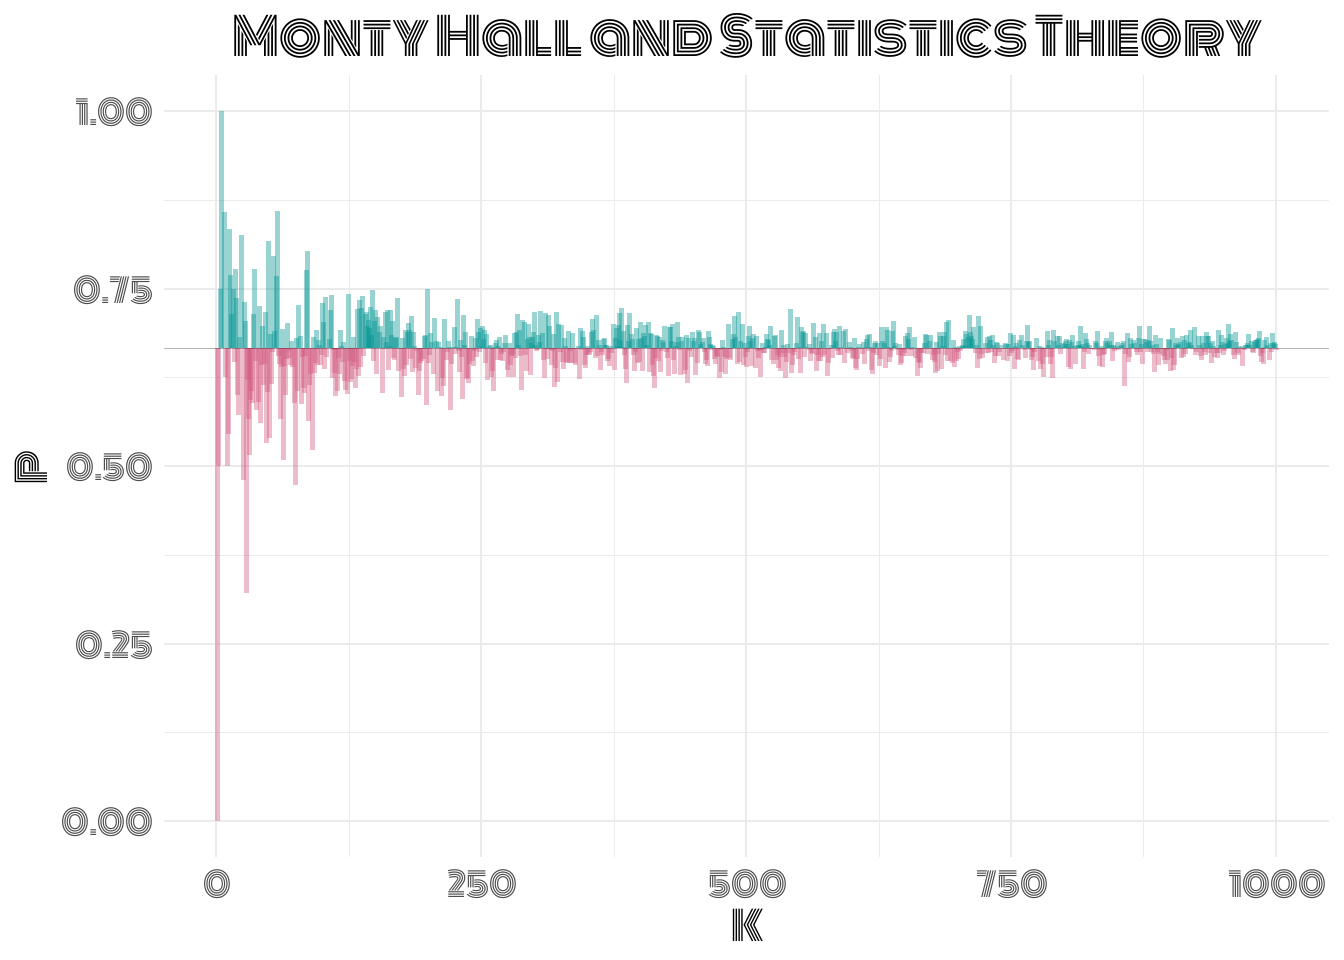
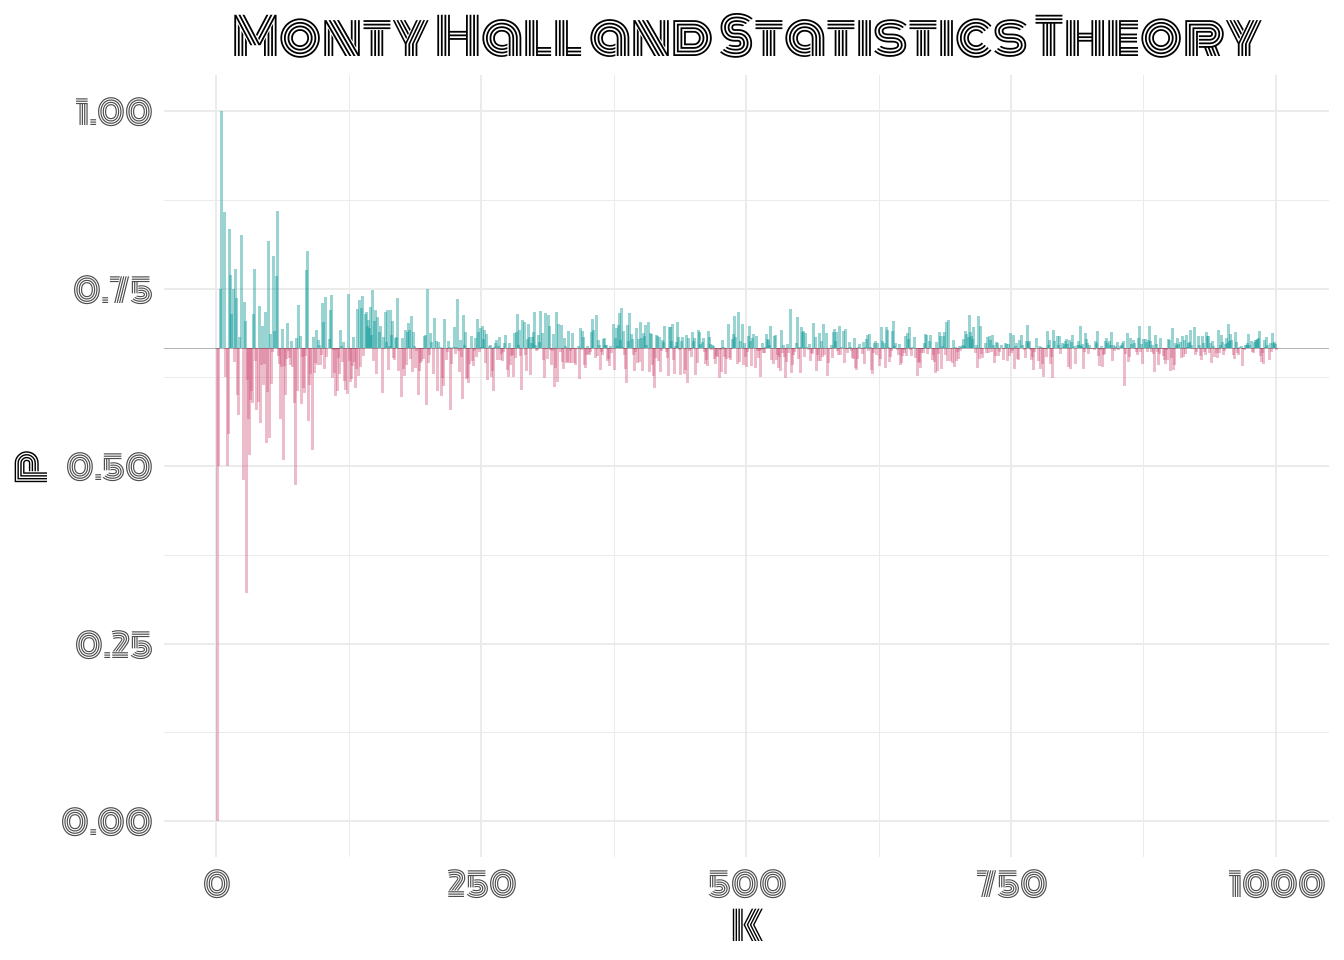
изменения в описании сайта

Changed region(s): [[0.1562, 0.2188, 0.9688, 0.5]]

diff --git a/content/blog/blog_post_2.md b/content/blog/blog_post_2.md
@@ -98,7 +98,7 @@ MontyHall(T)
 ```
 
 ```
-## [1] TRUE
+## [1] FALSE
 ```
 
 ```r
@@ -106,7 +106,7 @@ WinProb(F, 1000)
 ```
 
 ```
-## [1] 0.324
+## [1] 0.319
 ```
 
 ```r
@@ -114,7 +114,7 @@ WinProb(T, 1000)
 ```
 
 ```
-## [1] 0.663
+## [1] 0.637
 ```
 
 Теперь нарисуем, как вероятность выигрыша при смене выбора сходится к своему истинному значению при увеличении числа испытаний. Действительно, для проверки статистических гипотез часто требуется большая выборка:
@@ -132,7 +132,7 @@ data.frame(P = WinProb_K,
            K = seq(1, K, by = 1)) %>%
   mutate(mycolor = ifelse(P > 0.66667, "type1", "type2")) %>%
   ggplot(aes(x = K, y = P)) +
-  geom_segment(aes(x = K, xend = K, y = 0.66667, yend = P, color = mycolor), size = 1.0, alpha = 0.4, show.legend = F) +
+  geom_segment(aes(x = K, xend = K, y = 0.66667, yend = P, color = mycolor), size = 0.7, alpha = 0.4, show.legend = F) +
   geom_hline(yintercept = 0.66667, size = 0.2, alpha = 0.3)  +
   scale_color_carto_d(palette = 'TealRose') +
   theme_minimal(base_family = 'Monoton') +

diff --git a/content/about.md b/content/about.md
@@ -1,6 +1,8 @@
 ---
-date: "2023-04-18"
+date: "2023-04-15"
 title: О сайте
 ---
 
-Этот сайт посвящён весеннему курсу по прикладной эконометрике в **R**, который я провёл весной 2023 года.
+На этом сайте я публикую свои заметки о **статистике** и **экономике** и пытаюсь запрограммировать разные сюжеты в *R* и *Julia*.
+
+Также на сайте я постепенно буду выкладывать лекции к своему курсу по прикладной эконометрике в **R**, который я провожу весной 2023 года.
